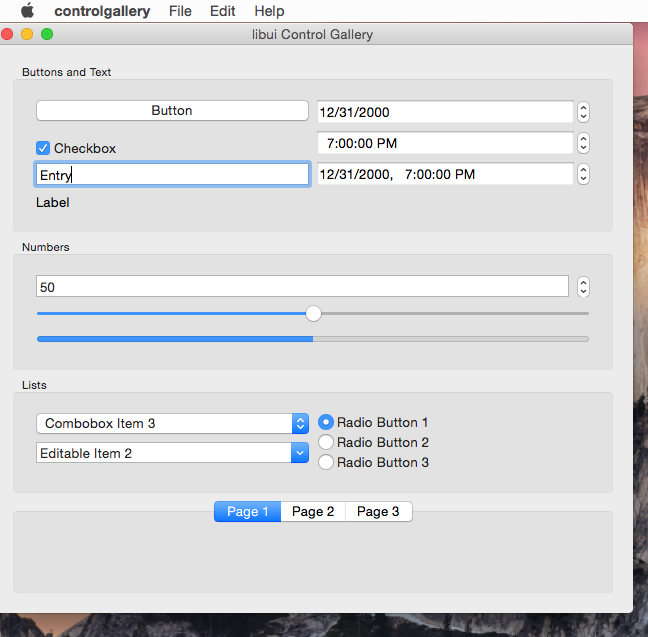
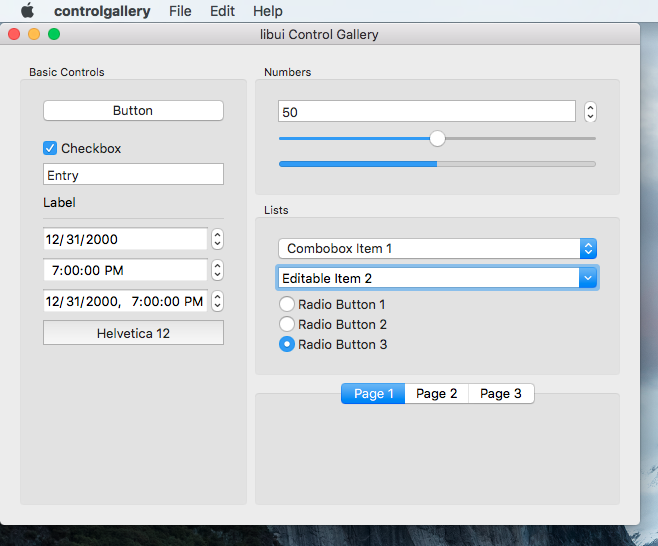
Updated the controlgallery screenshots. More TODOs.

diff --git a/examples/controlgallery/main.c b/examples/controlgallery/main.c
@@ -3,6 +3,10 @@
 #include <string.h>
 #include "../../ui.h"
 
+// TODOs
+// - rename variables in main()
+// - make both columns the same size?
+
 static uiWindow *mainwin;
 
 static int onClosing(uiWindow *w, void *data)
